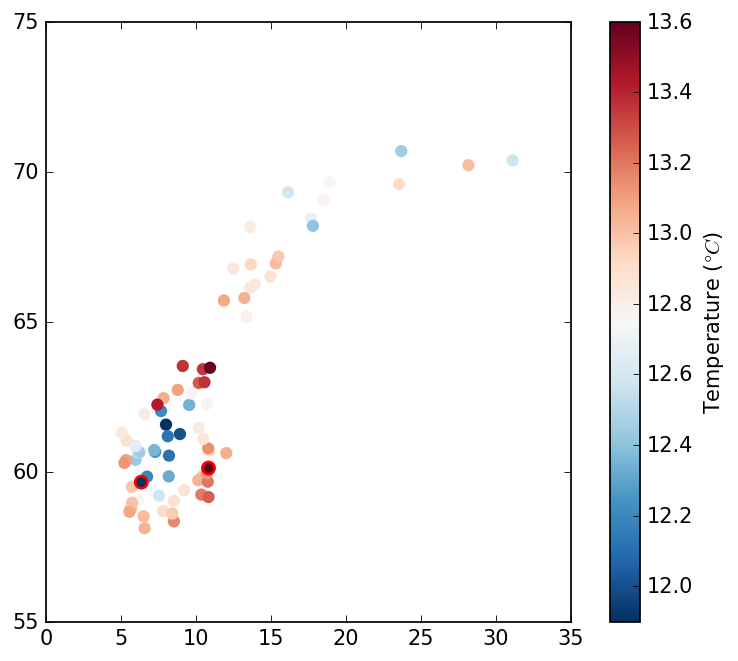
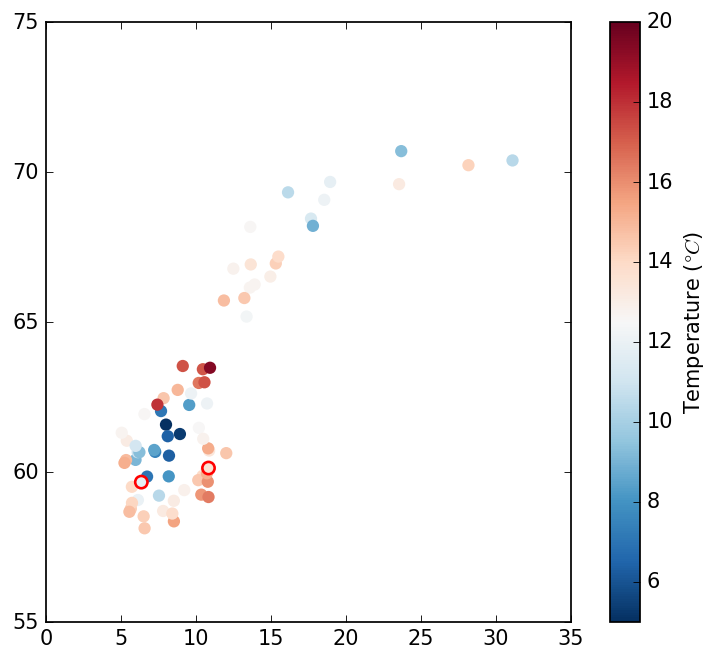
New titan image with vmin, vmax

diff --git a/assets/scripts/surface_analysis.py b/assets/scripts/surface_analysis.py
@@ -35,9 +35,10 @@ print(index_invalid_obs)
 # Plot the quality control results
 import matplotlib.pylab as mpl
 mpl.scatter(obs_lons[index_valid_obs], obs_lats[index_valid_obs],
-        c=obs[index_valid_obs] - 273.15, s=50, linewidths=0, cmap="RdBu_r")
+        c=obs[index_valid_obs] - 273.15, s=50, linewidths=0, cmap="RdBu_r", vmin=5, vmax=20)
 mpl.scatter(obs_lons[index_invalid_obs], obs_lats[index_invalid_obs],
-        c=obs[index_invalid_obs] - 273.15, s=50, edgecolors="r", linewidths=1.5, cmap="RdBu_r")
+        c=obs[index_invalid_obs] - 273.15, s=50, edgecolors="r", linewidths=1.5, cmap="RdBu_r",
+        vmin=5, vmax=20)
 mpl.xlim(0, 35)
 mpl.ylim(55, 75)
 mpl.gca().set_aspect(2)
